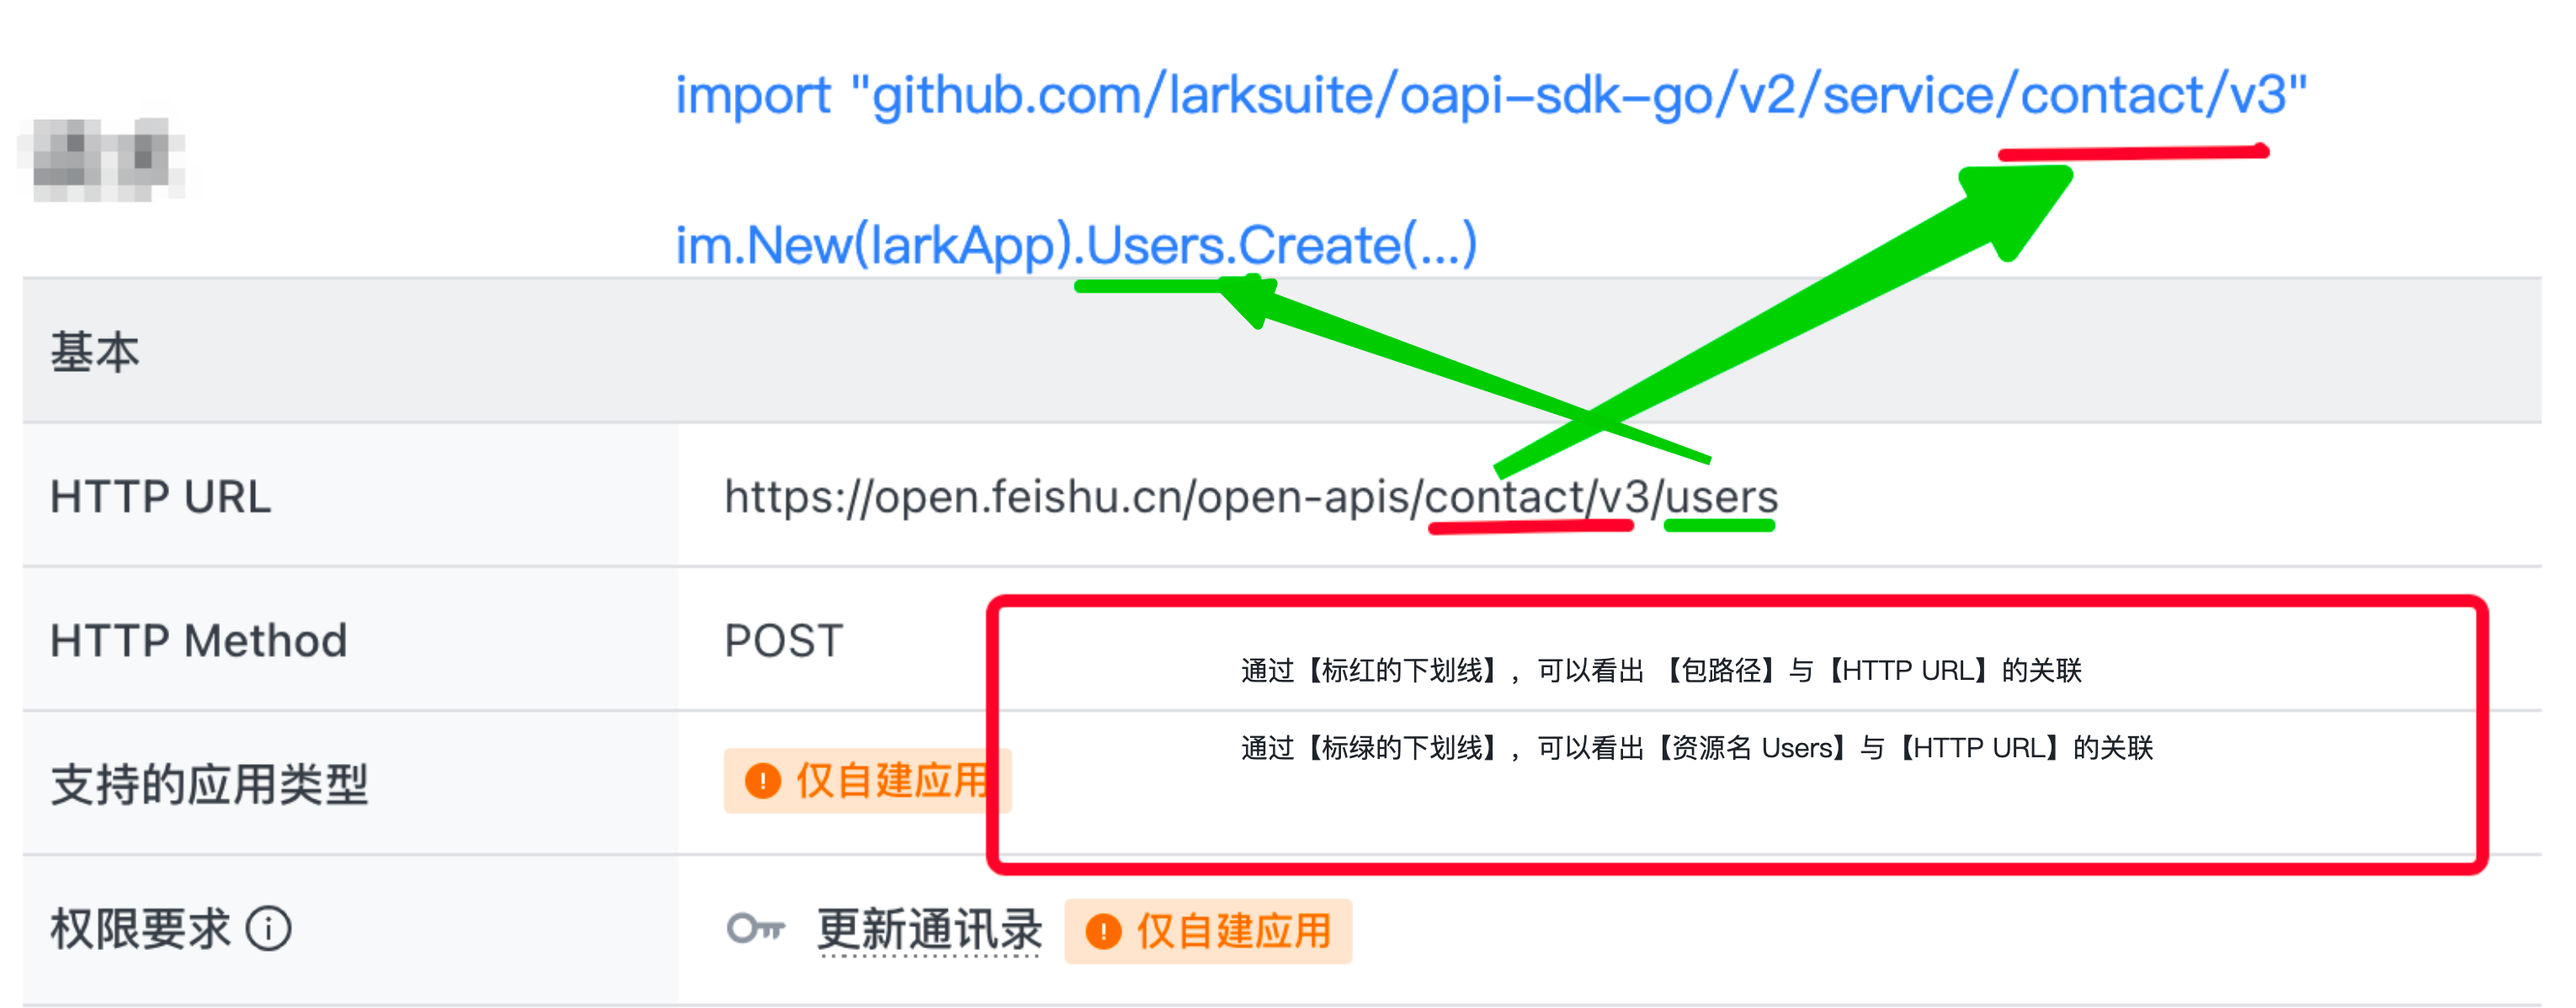
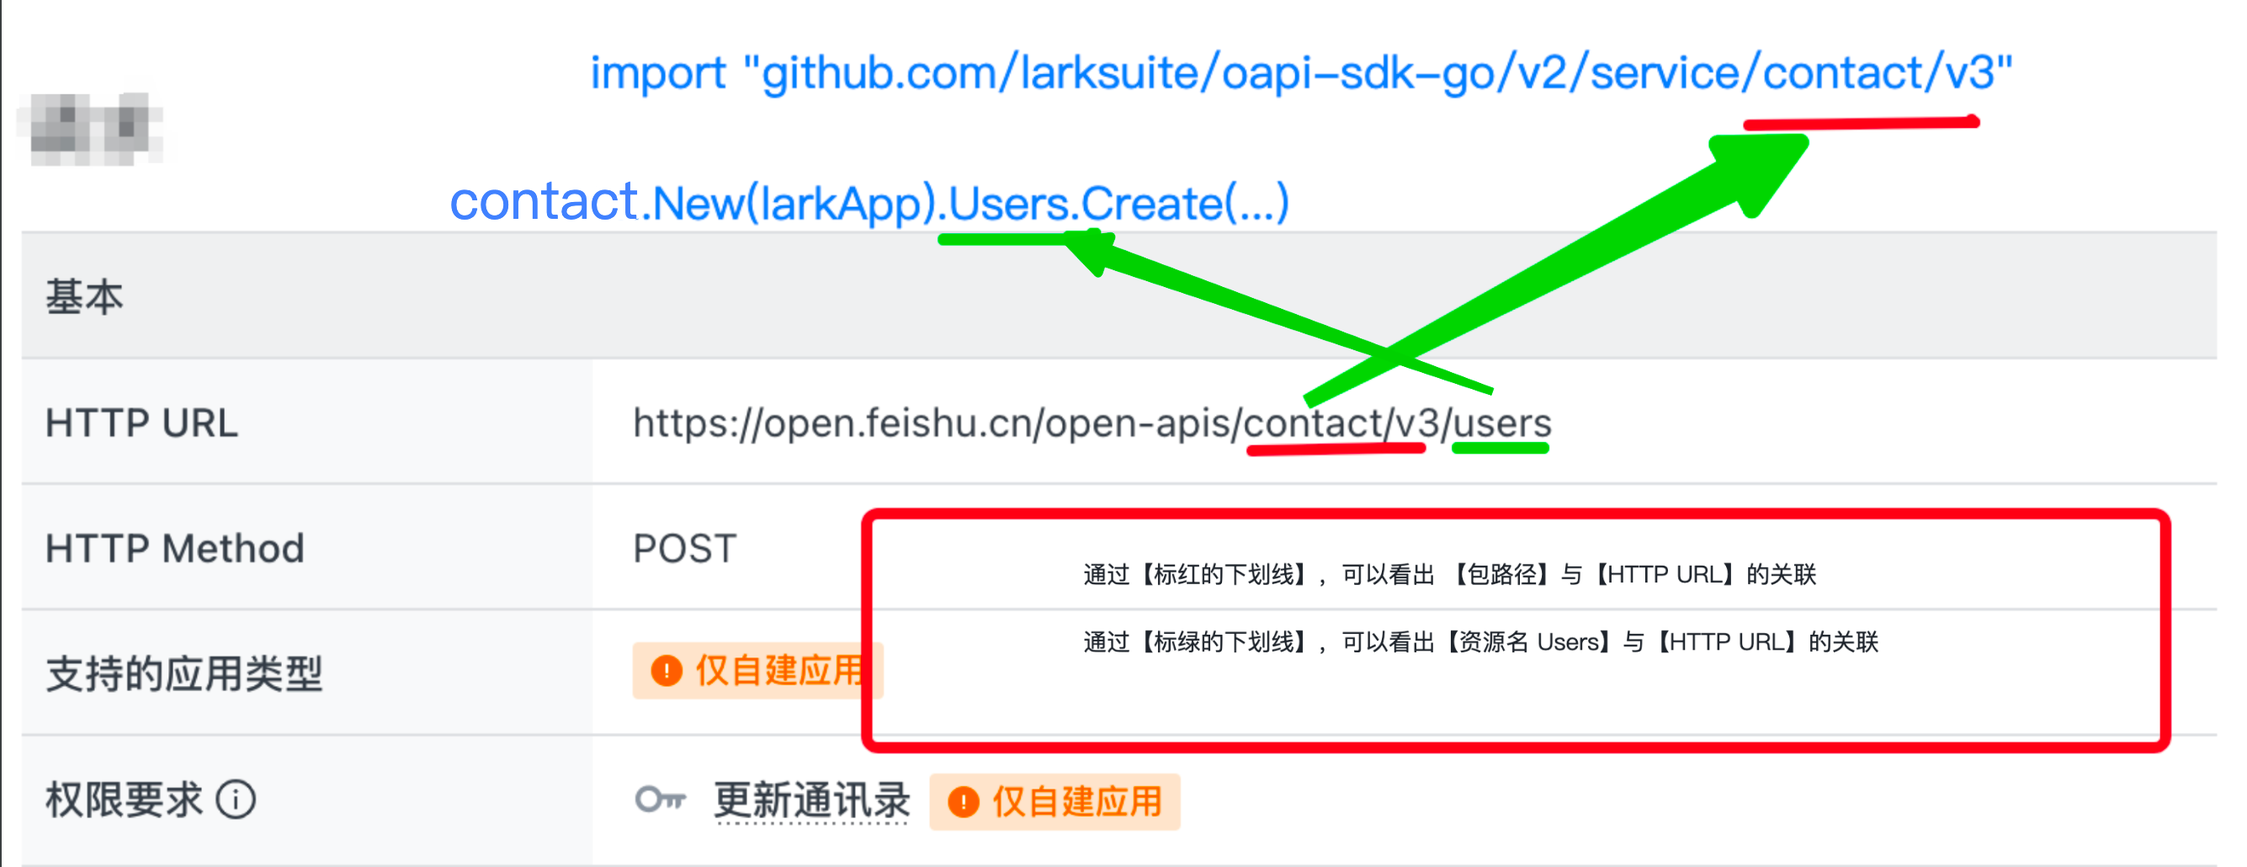
资源.方法名

diff --git a/FeiShu.md b/FeiShu.md
@@ -34,9 +34,9 @@ go get -u github.com/larksuite/oapi-sdk-go/v2
     - 下面的代码示例中的 "contact.New(larkApp).Users.Create(...)" 等等，例如：创建用户
     ![doc/pkg_resource_url.png](doc/pkg_resource_url.png)
 
-- 业务【资源.方法】与【HTTP URL】的关联，使用通讯录（contact）的用户资源（User）举例
+-【资源.方法名】与【HTTP URL】的关联，使用通讯录（contact）的用户资源（User）举例：
   
-  |资源.方法| HTTP URL | HTTP Method |描述 |
+  |资源.方法名| HTTP URL | HTTP Method |描述 |
   |-----|-----|-----|----|
   |Users.Create|/open-apis/contact/v3/users|POST|创建用户|
   |Users.Get|/open-apis/contact/v3/users/:user_id|GET|获取单个用户信息|
